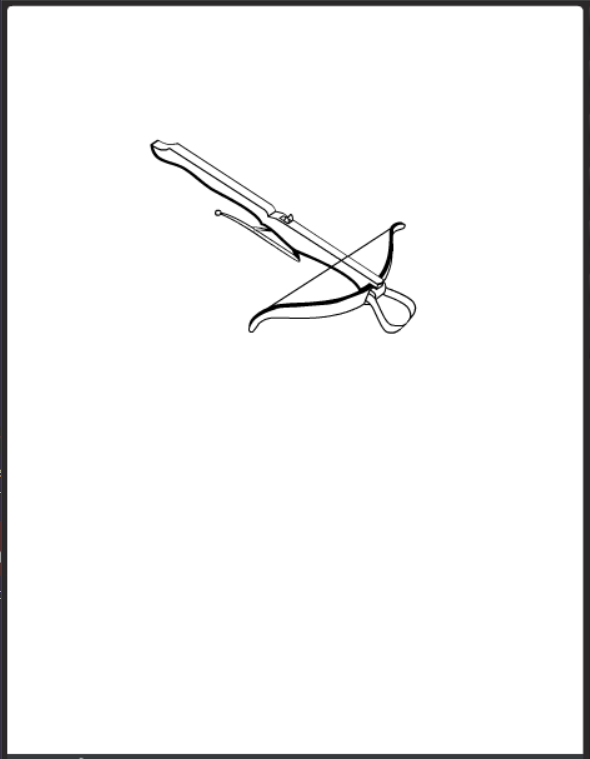
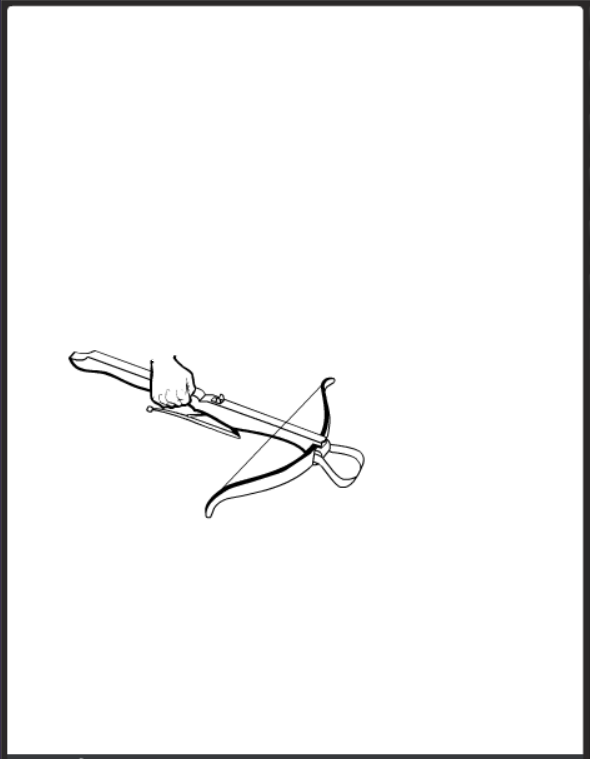
fix: squad resources

diff --git a/src/redux/slices/gameSquad.ts b/src/redux/slices/gameSquad.ts
@@ -24,6 +24,11 @@ const initialState: IGameSquad = {
         2: emptyCharacter(),
         3: null,
         4: null
+    },
+    resources: {
+        [UserResource.core]: 0,
+        [UserResource.gem]: 0,
+        [UserResource.gene]: 0
     }
 };
 
@@ -40,19 +45,19 @@ function createLevelUpBonuses(params: UserParam[]) {
 
 export const classInfo: IClassInfo = {
     mutant: {
-        startBonus: ['resources', UserResource.gene],
+        startBonus: ['maxParams', UserParam.health],
         levelUpBonuses: createLevelUpBonuses([UserParam.health, UserParam.stamina]),
-        description: 'Gets extra Muta-gene on start.\n\nOn level up has increased chance of getting Health or Stamina.\n\nBut there is a chance to get nothing too',
+        description: 'Gets extra Health on start.\n\nOn level up has increased chance of getting Health or Stamina.\n\nBut there is a chance to get nothing too',
     },
     cyborg: {
-        startBonus: ['resources', UserResource.core],
+        startBonus: ['maxParams', UserParam.health],
         levelUpBonuses: createLevelUpBonuses([UserParam.blank, UserParam.stamina]),
-        description: 'Gets extra Mecha-core on start.\n\nOn level up has increased chance of getting Stamina.\n\nBut there is a big chance to get nothing too'
+        description: 'Gets extra Health on start.\n\nOn level up has increased chance of getting Stamina.\n\nBut there is a big chance to get nothing too'
     },
     normal: {
-        startBonus: ['resources', UserResource.gem],
+        startBonus: ['maxParams', UserParam.health],
         levelUpBonuses: createLevelUpBonuses([UserParam.stamina, UserParam.stamina]),
-        description: 'Gets extra Gem on start.\n\nOn level up has super increased chance of getting Stamina.\n\nBut there is a chance to get nothing too'
+        description: 'Gets extra Health on start.\n\nOn level up has super increased chance of getting Stamina.\n\nBut there is a chance to get nothing too'
     },
     wizard: {
         startBonus: ['maxParams', UserParam.mana],
@@ -147,8 +152,8 @@ const gameSquad = createSlice({
         },
         buyItem(state, action) {
             const {index} = action.payload;
-            const squad = {...state.squadMembers};
-            const squadMember = squad[index]!;
+            const oldState = {...state};
+            const squadMember = oldState.squadMembers[index]!;
 
             if (!squadMember.general.inventory) {
                 squadMember.general.inventory = emptyInventory();
@@ -169,9 +174,9 @@ const gameSquad = createSlice({
             }
 
             squadMember.general.inventory[placeAsKey(position)] = action.payload.data;
-            squadMember.params.resources[UserResource.gem] -= action.payload.data.cost;
+            oldState.resources[UserResource.gem] -= action.payload.data.cost;
 
-            state.squadMembers = squad;
+            state = oldState;
         },
         studySpell(state, action) {
             const {index} = action.payload;
@@ -208,8 +213,8 @@ const gameSquad = createSlice({
         },
         implementCyber(state, action) {
             const {index} = action.payload;
-            const squad = {...state.squadMembers};
-            const squadMember = squad[index]!;
+            const oldState = {...state};
+            const squadMember = oldState.squadMembers[index]!;
             
             if (!squadMember.general.inventory) {
                 squadMember.general.inventory = emptyInventory();
@@ -238,14 +243,14 @@ const gameSquad = createSlice({
             }
 
             squadMember.general.inventory[placeAsKey(position)] = action.payload.data;
-            squadMember.params.resources[UserResource.core] -= action.payload.data.cost;
+            oldState.resources[UserResource.core] -= action.payload.data.cost;
 
-            state.squadMembers = squad;
+            state = oldState;
         },
         mutateMutation(state, action) {
             const {index} = action.payload;
-            const squad = {...state.squadMembers};
-            const squadMember = squad[index]!;
+            const oldState = {...state};
+            const squadMember = oldState.squadMembers[index]!;
 
             if (!squadMember.general.inventory) {
                 squadMember.general.inventory = emptyInventory();
@@ -259,7 +264,7 @@ const gameSquad = createSlice({
             }
 
             squadMember.general.inventory[placeAsKey(position)] = action.payload.data;
-            squadMember.params.resources[UserResource.gene] -= action.payload.data.cost;
+            oldState.resources[UserResource.gene] -= action.payload.data.cost;
 
             const isStrong = squadMember.general.masteries
                 .map(data => data.name)
@@ -267,7 +272,7 @@ const gameSquad = createSlice({
                 
             squadMember.params.race = raceCheck(squadMember.general.inventory, isStrong);
 
-            state.squadMembers = squad;
+            state = oldState;
         },
         processAbility(state, action) {
             const {index, data} = action.payload;

diff --git a/src/components/InventoryScreen.tsx b/src/components/InventoryScreen.tsx
@@ -31,16 +31,16 @@ function InventoryScreen() {
                 /> 
                 <div className={styles.inventory_screen}>
                     <StatsScreen />
-                    <div className={styles.inventory_body}>                       
+                    <div className={styles.inventory_body}>       
+                        {
+                            inventory.bothHands.name === items.item_oakBow.name ?
+                                <img src={images.bodyElements.oakBow} alt='oakBow'/> : null
+                        }                
                         {
                             inventory.back.name === mutations.mutation_wings.name ?
                                 <img src={images.bodyElements.wings} alt='wings'/> :
                                 inventory.back.name === items.item_flyingCape.name ?
-                                    <img src={images.bodyElements.cape} alt='cape'/> :
-                                    inventory.back.name === items.item_oakCrossow.name ?
-                                        <img src={images.bodyElements.oakCrossbow} alt='oakCrossbow'/> :
-                                        inventory.back.name === items.item_oakBow.name ?
-                                            <img src={images.bodyElements.oakBow} alt='oakBow'/> : null
+                                    <img src={images.bodyElements.cape} alt='cape'/> : null
                         }
                         {
                             inventory.tail.name === mutations.mutation_tailWithSting.name ?
@@ -140,11 +140,13 @@ function InventoryScreen() {
                                             <img src={images.bodyElements.magisterScepter} alt='magisterScepter'/> :
                                             inventory.bothHands.name === items.item_runicGreatsword.name ?
                                                 <img src={images.bodyElements.runicGreatsword} alt='runicGreatsword'/> :
-                                                inventory.bothHands.name === items.item_apprenticeRod.name ?
-                                                    <img src={images.bodyElements.apprenticeRod} alt='apprenticeRod'/> :
-                                                    inventory.rightHand.name === items.item_steelSwordRightHand.name ?
-                                                        <img src={images.bodyElements.steelSwordRightHand} alt='steelSwordRightHand'/> :
-                                                        <img src={images.bodyElements.rightHand} alt='rightHand'/>
+                                                inventory.bothHands.name === items.item_oakCrossow.name ?
+                                                    <img src={images.bodyElements.oakCrossbow} alt='oakCrossbow'/> :
+                                                    inventory.bothHands.name === items.item_apprenticeRod.name ?
+                                                        <img src={images.bodyElements.apprenticeRod} alt='apprenticeRod'/> :
+                                                        inventory.rightHand.name === items.item_steelSwordRightHand.name ?
+                                                            <img src={images.bodyElements.steelSwordRightHand} alt='steelSwordRightHand'/> :
+                                                            <img src={images.bodyElements.rightHand} alt='rightHand'/>
                         }
                         <img src={images.bodyElements.head} alt='head'/>
                         {

diff --git a/background/contextMenus.ts b/background/contextMenus.ts
@@ -38,17 +38,28 @@ function contextMenusListeners(info: IContextMenuInfo, tab?: ITab) {
         case cheatContextMenuIds.strongStart:
             if (tab?.url?.endsWith('index.html#/game')) {
                 chrome.storage.local.get().then(result => {
-                    const squad = {...result['tech-dungeon-game'].gameSquad.squadMembers};
-                    const user = squad[2];
+                    const squad = {...result['tech-dungeon-game'].gameSquad};
+
+                    const user = squad.squadMembers[2];
                     user.general.masteries = [];
                     user.general.spells = [];
                     user.general.powers = [];
                     user.general.inventory = null;
-                    user.params.resources['Gems'] = 27;
-                    user.params.resources['Mecha-cores'] = 9;
-                    user.params.resources['Muta-genes'] = 9;
                     user.params.level = 12;
-                    result['tech-dungeon-game'].gameSquad.squadMembers = squad;
+
+                    squad.resources['Gems'] = 27;
+                    squad.resources['Mecha-cores'] = 9;
+                    squad.resources['Muta-genes'] = 9;
+
+                    squad.squadMembers = {
+                        0: null,
+                        1: null,
+                        2: user,
+                        3: null,
+                        4: null
+                    }
+
+                    result['tech-dungeon-game'].gameSquad = squad;
 
                     chrome.storage.local.set(result);
 

diff --git a/src/components/StatsScreen.tsx b/src/components/StatsScreen.tsx
@@ -8,7 +8,9 @@ import ParamIcon from "./ParamIcon";
 function StatsScreen() {
     const index = useSelector((store: IStore) => store.gameSquad.currentlyWatched);
 
-    const user = useSelector((state: IStore) => state.gameSquad.squadMembers[index]?.params)!;
+    const squad = useSelector((state: IStore) => state.gameSquad);
+    const user = squad.squadMembers[index]?.params!;
+    const resources = squad.resources;
     return (
         <div className={styles.extensionPopup_userParams}>
             <div className={styles.userParams_header}>
@@ -48,13 +50,13 @@ function StatsScreen() {
             </div>
             <div className={styles.userParams_body}>
                 <div>
-                    <ResourceIcon resource='gem'/>: {user.resources.Gems}
+                    <ResourceIcon resource='gem'/>: {resources.Gems}
                 </div>
                 <div>
-                    <ResourceIcon resource='core'/>: {user.resources["Mecha-cores"]}
+                    <ResourceIcon resource='core'/>: {resources["Mecha-cores"]}
                 </div>
                 <div>
-                    <ResourceIcon resource='gene'/>: {user.resources[UserResource.gene]}
+                    <ResourceIcon resource='gene'/>: {resources[UserResource.gene]}
                 </div>
             </div>
         </div>

diff --git a/src/components/SubInventoryScreen.tsx b/src/components/SubInventoryScreen.tsx
@@ -54,14 +54,14 @@ function SubInventoryScreen(props: {
         }
     }
 
-    const userResource = useSelector((store: IStore) => 
-        store.gameSquad.squadMembers[index]?.params.resources[subInventoryMappings[dataName].resource])!;
+    const resource = useSelector((store: IStore) => 
+        store.gameSquad.resources[subInventoryMappings[dataName].resource])!;
 
     const masteriesUser = useSelector((store: IStore) => 
         store.gameSquad.squadMembers[index]?.general.masteries.map(data => data.name));
 
     function disableChecker(data: IItem | IMutation | ICyber) {
-        const resourceCheck = userResource >= data.cost;
+        const resourceCheck = resource >= data.cost;
         let requiredMasteryCheck = false;
         if (dataName === 'items') {
             // @ts-ignore

diff --git a/src/general/items/items.ts b/src/general/items/items.ts
@@ -50,19 +50,19 @@ const item_healingPotion: IItem = {
 
 const item_oakBow: IItem = {
     cost: 1,
-    inventoryPlace: InventoryPlaces.back,
+    inventoryPlace: InventoryPlaces.bothHands,
     name: 'Bow',
     description: 'Usual oak bow',
     image: images.normalItems.bow,
     linkedMastery: masteries.mastery_archery,
     ability: abilities.battleAbilities.battleAbility_oakBowShot,
     masterAbilities: [abilities.battleAbilities.battleAbility_masterOakBowShot],
-    priority: 1
+    priority: 2
 }
 
 const item_oakCrossow: IItem = {
     cost: 2,
-    inventoryPlace: InventoryPlaces.back,
+    inventoryPlace: InventoryPlaces.bothHands,
     name: 'Crossbow',
     description: 'Usual oak crossbow',
     image: images.normalItems.crossbow,

diff --git a/src/types/interfaces.ts b/src/types/interfaces.ts
@@ -102,11 +102,6 @@ export interface ICharacherParams {
     race: Race,
     stage?: number,
     level?: number,
-    resources: {
-        [UserResource.gene]: number,
-        [UserResource.gem]: number,
-        [UserResource.core]: number
-    },
     name: string,
     currentParams: {
         [UserParam.health]: number,
@@ -185,7 +180,12 @@ interface IGameScreens {
 
 export interface IGameSquad {
     currentlyWatched: number,
-    squadMembers: Record<string, ICharacher | null>
+    squadMembers: Record<string, ICharacher | null>,
+    resources: {
+        [UserResource.gene]: number,
+        [UserResource.gem]: number,
+        [UserResource.core]: number
+    }
 }
 
 export interface IStore {

diff --git a/src/general/characters/characters.ts b/src/general/characters/characters.ts
@@ -68,11 +68,6 @@ function emptyParams(): ICharacherParams {
             [DamageTypes.electrical]: 0,
             [DamageTypes.psionic]: 0,
             [DamageTypes.acid]: 0
-        },
-        resources: {
-            [UserResource.core]: 0,
-            [UserResource.gem]: 0,
-            [UserResource.gene]: 0
         }
     }    
 }
